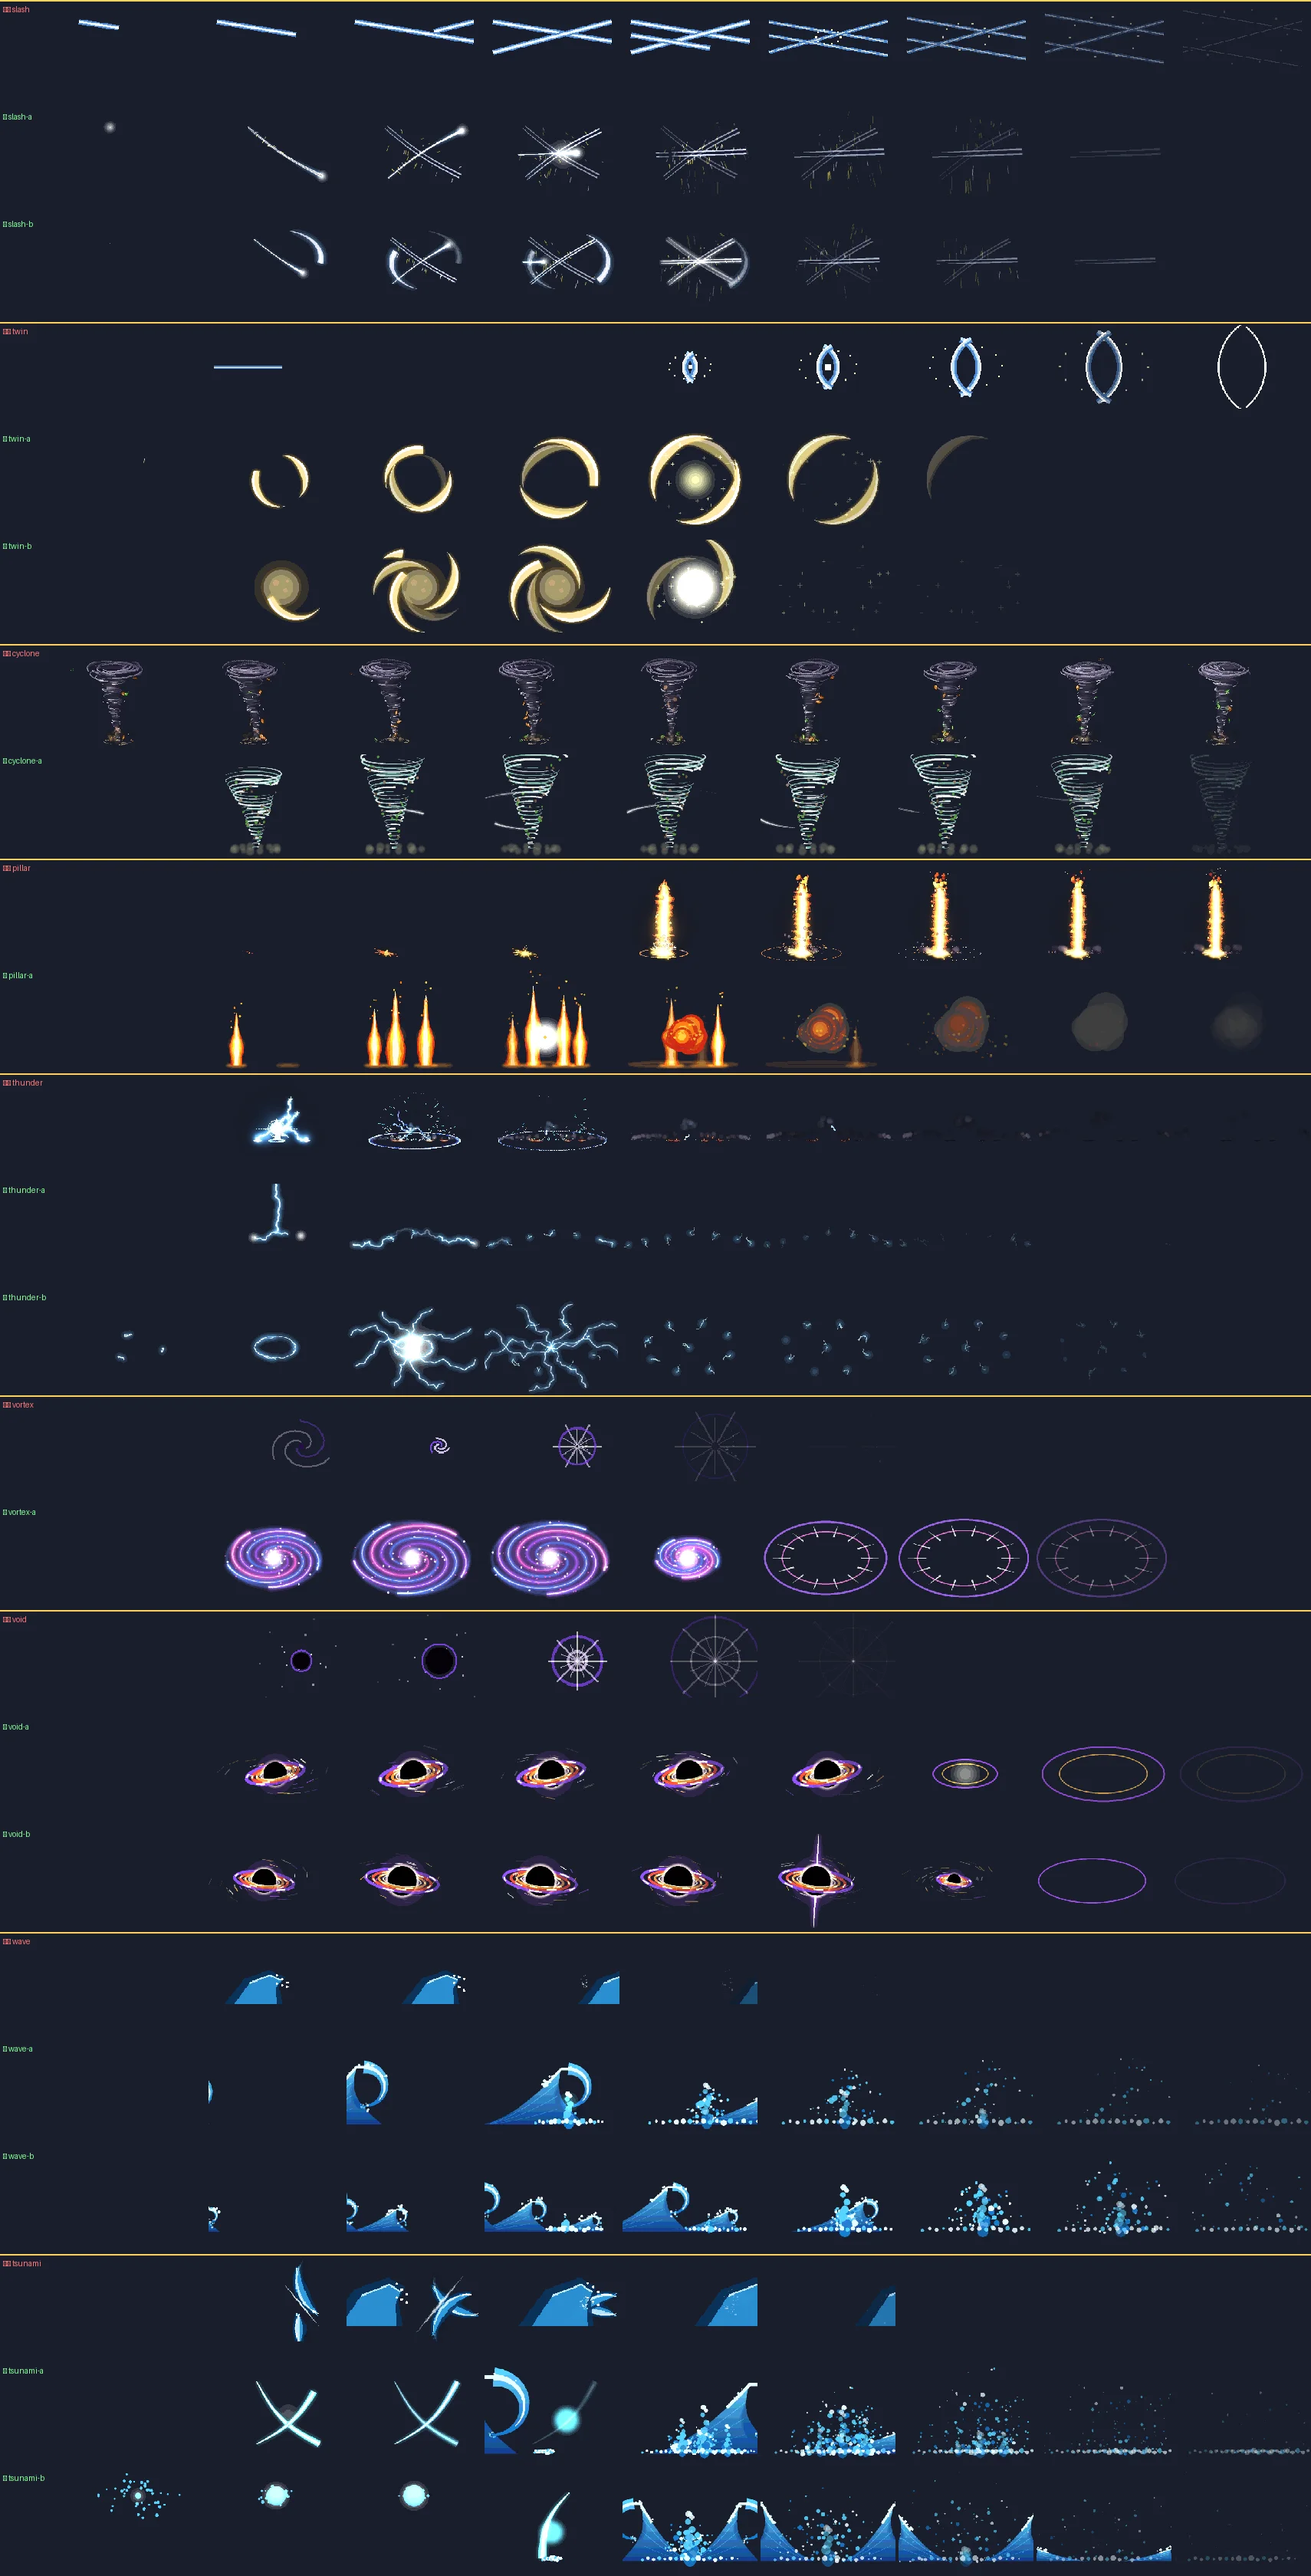
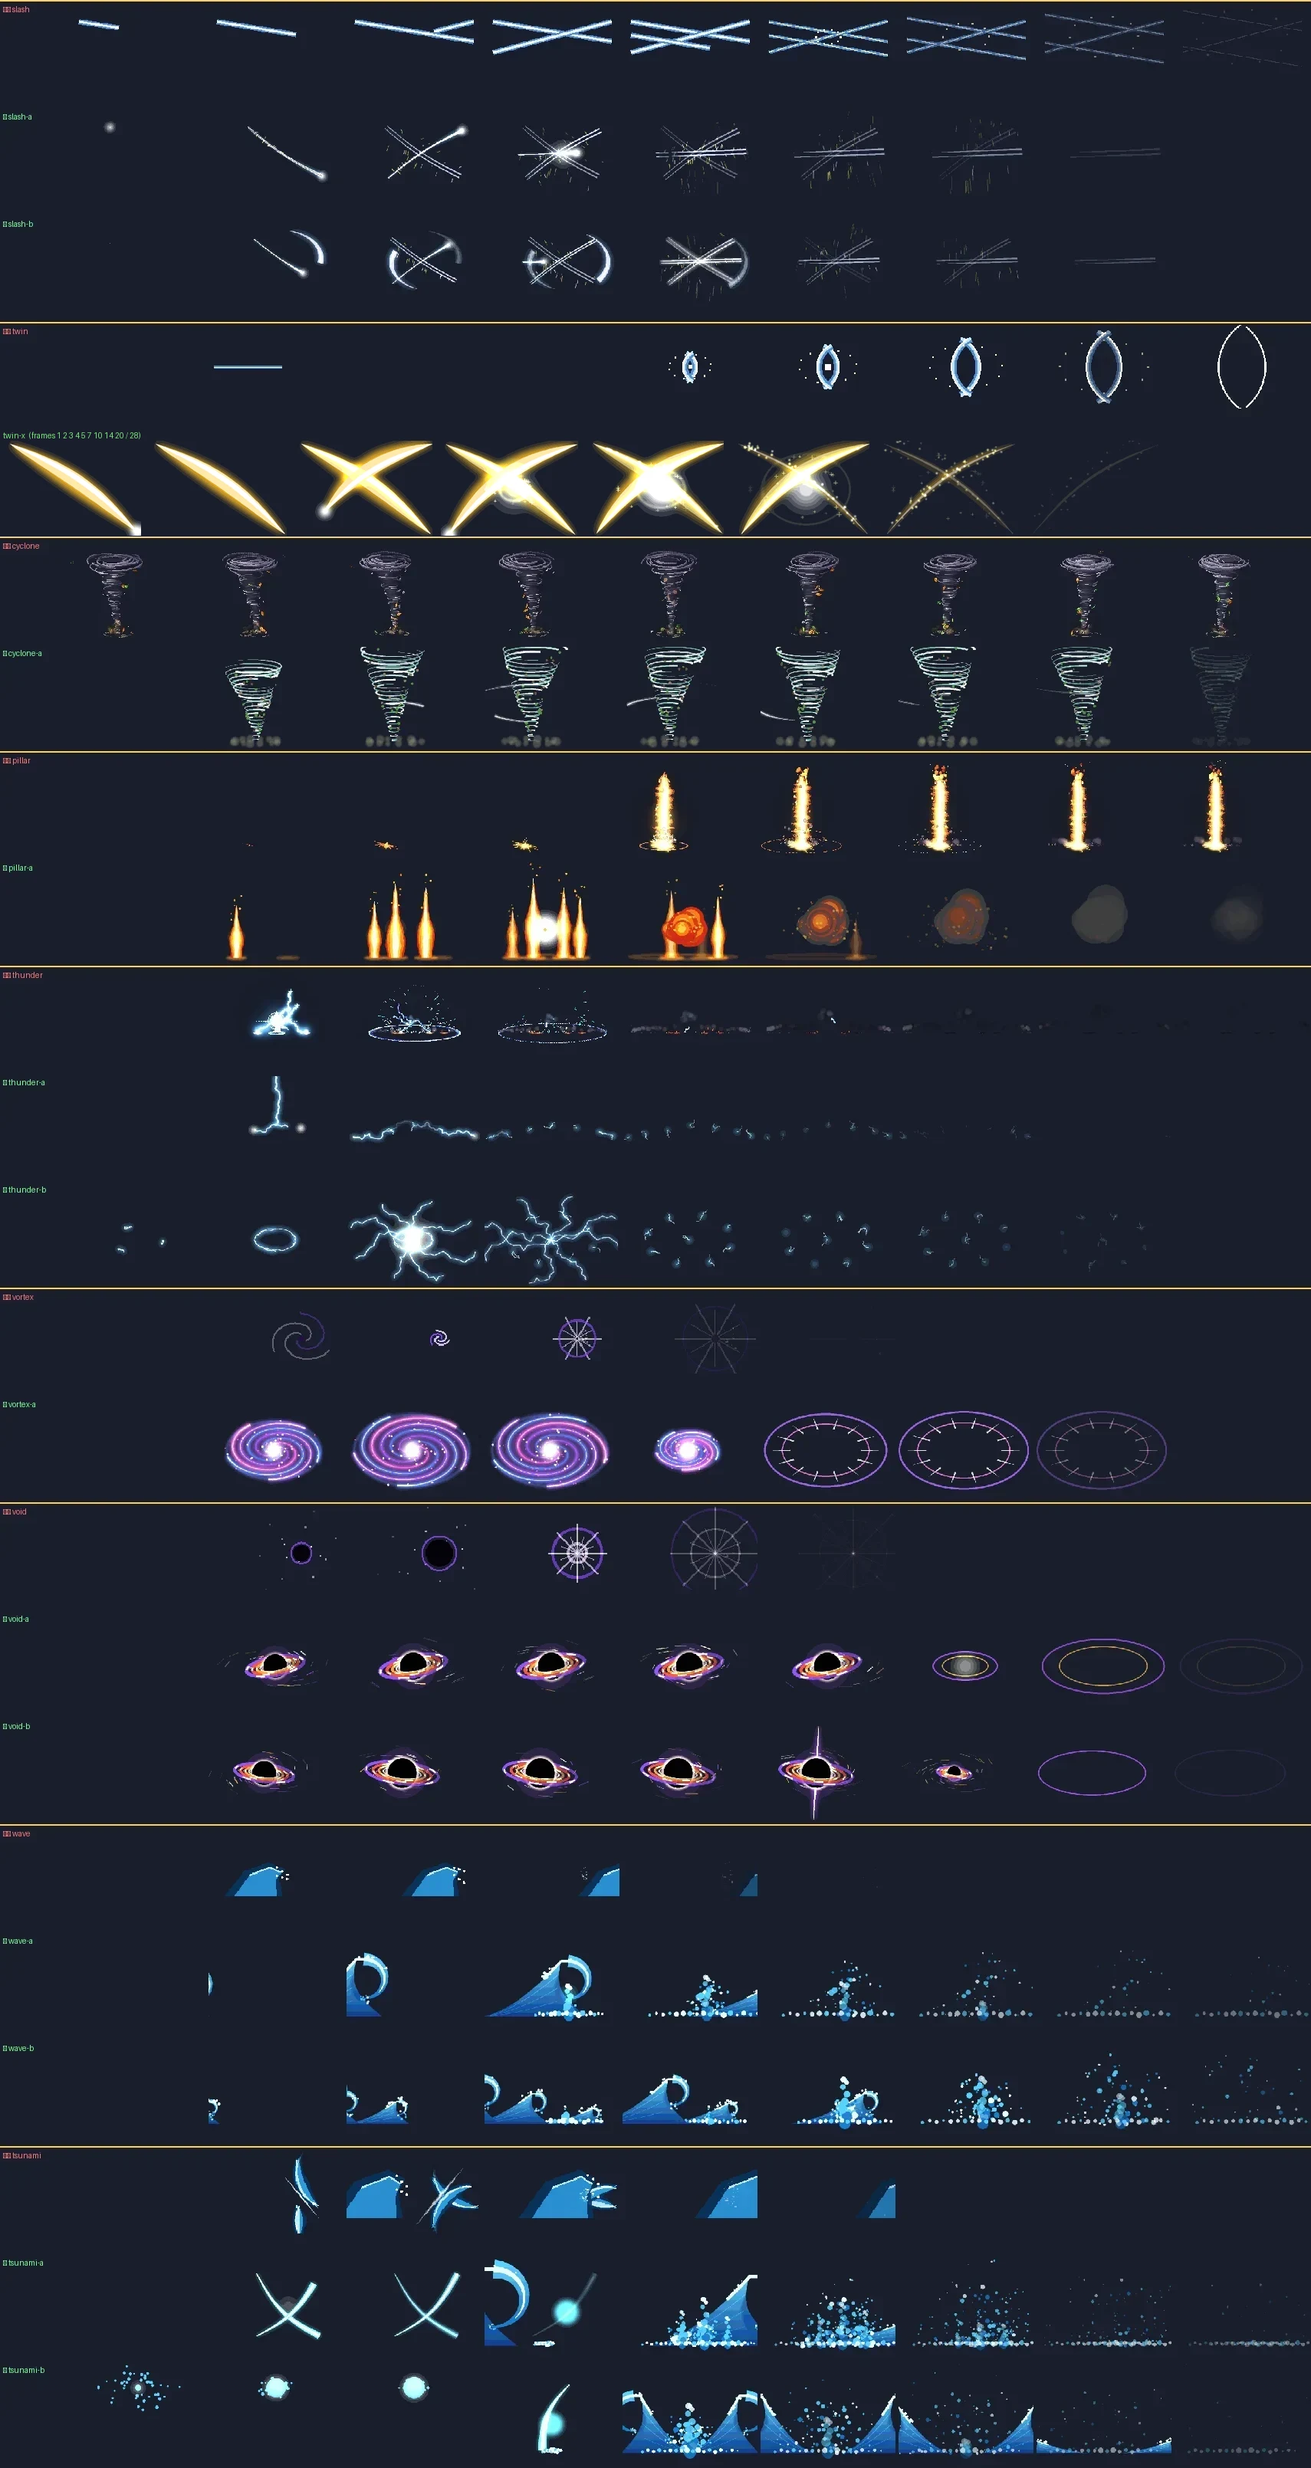
🎆 #109 쌍월참 새 안 다시 = 큰 초승달 X 두 번 베기 (twin-x)
- 화면을 거의 가로지르는 큰 초승달 ↘ → 0.12초 뒤 ↙ = X · 겹칠 때 하얀 번쩍 + 작은 흔들림 · X 잔상 → 흩어짐
- 260 × 180 · 28칸 · 20fps · 금빛 달 색 (옛 새 안 a · b 와 같은 규칙) · 맞는 칸 pk 3
- 옛 새 안 twin-a · b 지움 · alt.json sk-twin = twin-x 하나 · compare.webp 쌍월 새 안 줄 교체 (지금 띠 줄 그대로)

Claude-Session: https://claude.ai/code/session_014JJv1kfRHM8SAjsHDCgfJ5

diff --git a/tools/fxbake/sk4/blades.py b/tools/fxbake/sk4/blades.py
@@ -4,6 +4,7 @@
 #   slash B = 칼 궤적(초승달 휘두름) 세 번 + 같은 「벌어지는 틈」 · 마지막에 세 틈이 동시에 번쩍
 #   twin A  = 「달빛베기를 크게 여러 번」: 큰 초승달 6번(돌아가며 · 점점 크게) → 마지막 큰 X 두 달 + 빛 터짐
 #   twin B  = 뒤에 보름달이 떠오르고 달 둘레를 초승달 베기가 연달아 8번 → 달이 깨지듯 번쩍
+#   twin X  = 📜 #109 「정말 큰 쌍월 두 번 베기 · 엑스 자로 촥촥!」: 화면을 거의 가로지르는 큰 초승달 ↘ → 0.12초 뒤 ↙ = X · 번쩍 · 흔들림 · 잔상 → 흩어짐 (a · b 대신 · 비교 새 안)
 import math, random
 import numpy as np
 from lib import Canvas, hexc, poly, disc, ell, line, taper, arc_pts, crescent, multi, ease_out, ease_in, clamp, bump
@@ -126,4 +127,66 @@ def twin_B(W=260, H=180, n=30, fps=20):
         frames.append(c.image())
     return frames, dict(px=cx, py=cy, pk=int(0.62 * fps))
 
-ALL = {'slash-a': slash_A, 'slash-b': slash_B, 'twin-a': twin_A, 'twin-b': twin_B}
+def blade(pts, wmax):
+    """초승달 칼빛 = 가운데 굵고 양 끝 뾰족 (sin 굵기)"""
+    L, R = [], []
+    for i, (x, y) in enumerate(pts):
+        a_ = pts[max(0, i - 1)]; b_ = pts[min(len(pts) - 1, i + 1)]
+        dx, dy = b_[0] - a_[0], b_[1] - a_[1]; nn = math.hypot(dx, dy) or 1; nx, ny = -dy / nn, dx / nn
+        u = i / (len(pts) - 1); w = wmax * math.sin(math.pi * u) ** 0.8 / 2
+        L.append((x + nx * w * 1.6, y + ny * w * 1.6)); R.append((x - nx * w * 0.4, y - ny * w * 0.4))  # 바깥(볼록) 쪽이 두꺼운 초승달
+    return poly(L + R[::-1])
+
+def big_moon(c, x0, y0, x1, y1, bend, t, seed, wmax=26, dx=0, dy=0):
+    """화면을 거의 가로지르는 큰 초승달 한 줄: 0 ~ 0.07 그어짐(앞 = 하얀 머리) → 0.07 ~ 0.3 빛남 → 0.3 ~ 0.6 잔상 · 흩어짐"""
+    if t < 0: return
+    x0, y0, x1, y1 = x0 + dx, y0 + dy, x1 + dx, y1 + dy
+    Ln = math.hypot(x1 - x0, y1 - y0); ux, uy = (x1 - x0) / Ln, (y1 - y0) / Ln; nx, ny = -uy, ux
+    def at(u): b = math.sin(math.pi * u) * bend; return (x0 + (x1 - x0) * u + nx * b, y0 + (y1 - y0) * u + ny * b)
+    q = ease_out(clamp(t / 0.07))
+    full = [at(u) for u in np.linspace(0, 1, 48)]
+    if t < 0.3:  # 그어짐 · 빛남
+        drawn = [at(u) for u in np.linspace(0, q, 48)]
+        g = 1.0 if t < 0.12 else clamp(1 - (t - 0.12) / 0.18) * 0.6 + 0.4
+        if len(drawn) > 2:
+            c.add(c.mask(blade(drawn, wmax * 1.5), 6), MOONG, 1.0 * g)
+            c.over(c.mask(blade(drawn, wmax)), MOON, 0.95 * g)
+            c.over(c.mask(blade(drawn, wmax * 0.38)), WHITE, g)
+        if t < 0.09:
+            hx, hy = at(q); c.add(c.mask(disc(hx, hy, 9), 6), WHITE, 1.6)
+    # 잔상: 가는 금빛 줄이 남았다가 흐려짐
+    if 0.12 < t < 0.62:
+        a = clamp(1 - (t - 0.3) / 0.32) if t > 0.3 else 1.0
+        c.add(c.mask(blade(full, wmax * 0.5), 3), MOONG, 0.55 * a)
+        c.over(c.mask(blade(full, wmax * 0.16)), WHITE, 0.6 * a)
+    # 흩어짐: 줄을 따라 빛 알갱이가 옆으로 떠나며 사라짐
+    r = random.Random(seed)
+    for k in range(46):
+        u = r.uniform(0.05, 0.95); st = 0.22 + r.uniform(0, 0.12); tt = t - st
+        if tt <= 0 or tt > 0.4: continue
+        px, py = at(u); sgn = r.choice((-1, 1)); v = r.uniform(25, 90)
+        x2 = px + (nx * sgn * v + ux * r.uniform(-20, 20)) * tt; y2 = py + (ny * sgn * v + uy * r.uniform(-20, 20)) * tt - 30 * tt
+        aa = clamp(1 - tt / 0.4); sz = r.uniform(1.0, 2.4) * (1 - tt / 0.6)
+        c.add(c.mask(disc(x2, y2, sz), 1), MOON if k % 3 else WHITE, aa * 1.3)
+
+def twin_X(W=260, H=180, n=28, fps=20):
+    """📜 #109 (선생님 「정말 큰 쌍월 두 번 베기 · 엑스 자로 촥촥!」): 큰 초승달 ↘ → 0.12초 뒤 ↙ = X · 겹치는 순간 하얀 번쩍 + 작은 흔들림 · X 잔상 → 흩어짐"""
+    cx, cy = 140, 92; frames = []
+    A = (cx - 128, cy - 86, cx + 116, cy + 84, -22, 0.00, 11)  # ↘
+    B = (cx + 120, cy - 86, cx - 122, cy + 84, 22, 0.12, 12)   # ↙ (0.12초 뒤)
+    hit = 0.17  # 두 번째가 다 그어져 X 가 되는 때
+    for i in range(n):
+        t = i / fps; c = Canvas(W, H)
+        sh = (2.5 * (1 - (t - hit) / 0.15)) if hit <= t < hit + 0.15 else 0  # 작은 흔들림 (띠 안 · 2 ~ 3칸)
+        dx, dy = (sh if i % 2 else -sh), (-sh * 0.6 if i % 2 else sh * 0.6)
+        for (x0, y0, x1, y1, bend, st, seed) in (A, B): big_moon(c, x0, y0, x1, y1, bend, t - st, seed, 26, dx, dy)
+        if hit <= t < hit + 0.22:  # 가운데 하얀 번쩍 + 빛 고리
+            b = bump(t, hit, hit + 0.22)
+            c.add(c.mask(disc(cx + dx, cy + dy, 30), 14), WHITE, b * 1.8)
+            c.over(c.mask(disc(cx + dx, cy + dy, 12)), WHITE, b)
+            rr = 16 + (t - hit) * 380; c.add(c.mask(ell(cx + dx, cy + dy, rr, rr * 0.8, 2.5), 2), MOON, clamp(1 - (t - hit) / 0.22) * 1.2)
+        stars(c, cx, cy, t - hit, 22, 96, 9, 0.9)
+        frames.append(c.image())
+    return frames, dict(px=cx, py=cy, pk=int(round(hit * fps)), name='twin-x')
+
+ALL = {'slash-a': slash_A, 'slash-b': slash_B, 'twin-x': twin_X}  # twin-a · b = #109 로 twin-x 가 대신 (함수는 남김)

diff --git a/docs/handoff/skill-v4/README.md b/docs/handoff/skill-v4/README.md
@@ -9,7 +9,7 @@
 | 키 | 새 안 |
 |---|---|
 | slash | a 칼끝이 선을 따라 달리고 금이 벌어지며 불꽃 · b 휘두름 궤적 + 벌어지는 틈 |
-| twin | a 큰 달빛 베기 6번 → X | b 보름달 둘레 초승달 8번 |
+| twin | x (📜 #109 다시) 화면을 거의 가로지르는 큰 초승달 ↘ → 0.12초 뒤 ↙ = X · 겹칠 때 하얀 번쩍 + 작은 흔들림 · X 잔상 → 흩어짐 (옛 a · b 는 지움) |
 | cyclone | a 큰 깔때기 + 튀어나가는 바람 칼날 + 파편 |
 | pillar | a 기둥 4개 차례로 → 불덩이 폭발 → 연기 |
 | thunder | a 내리꽂힘 → 양옆 연쇄 → 잔향 · b 번개 고리 → 사방 가지 → 잔향 |
